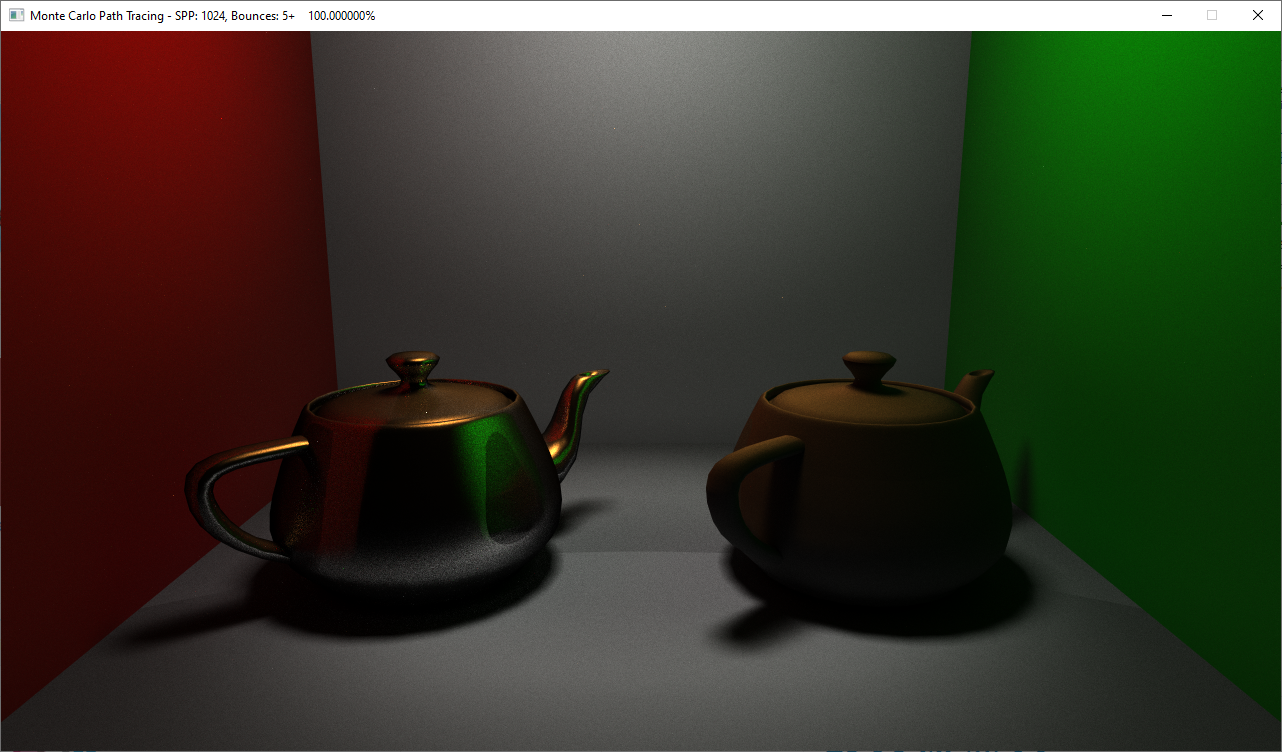
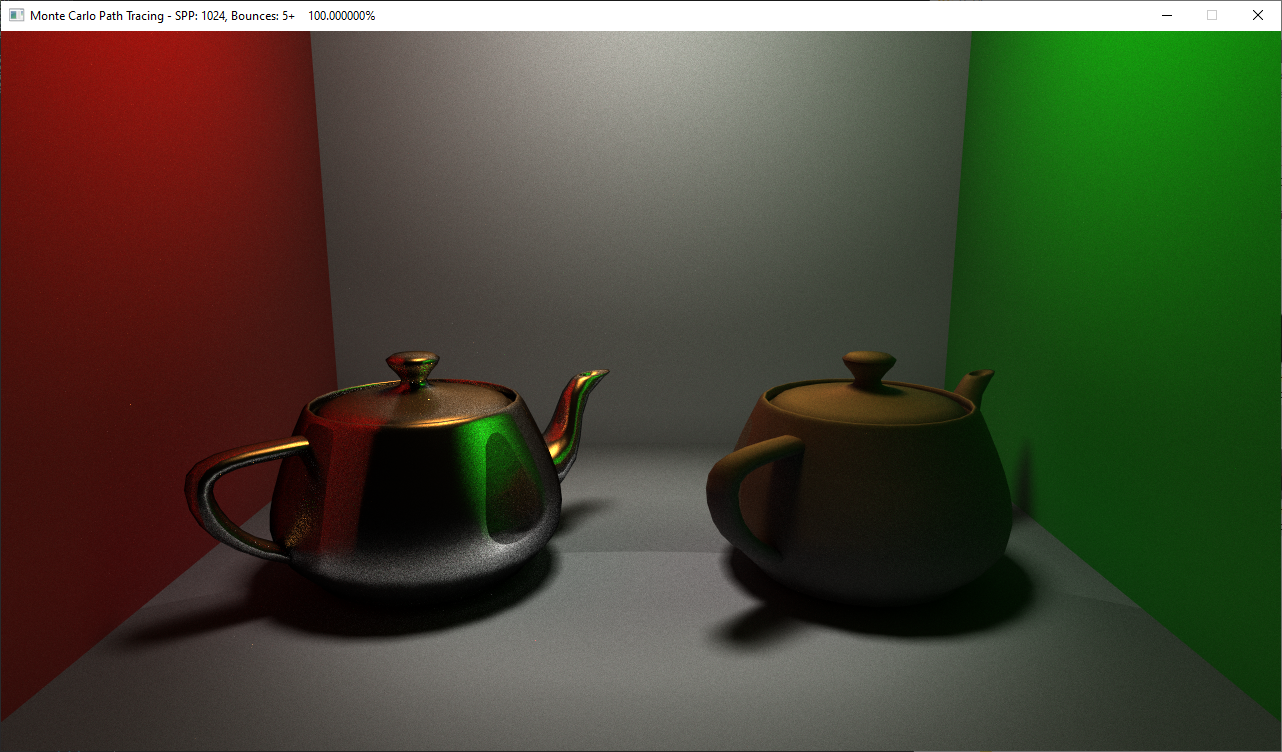
test phong material

diff --git a/1986.Kajiya/code/MonteCarloPathTracer.cpp b/1986.Kajiya/code/MonteCarloPathTracer.cpp
@@ -176,7 +176,7 @@ glm::vec3 MonteCarloPathTracer::_traceRay(const Ray& wo,
     // uniform sampling the light source, PDF = 1/A
     directLighting = Li * A * brdf * visibilityTerm * geometryTerm * color;
   }
-  if (sampleLight) return directLighting * (weight / NEE_PDF_LIGHT);
+  if (sampleLight) return directLighting / NEE_PDF_LIGHT;
   //----- end of direct lighting -----------------------------------------
 
   // bounces==1: direct lighting, bounces>1: indirect lighting
@@ -205,7 +205,7 @@ glm::vec3 MonteCarloPathTracer::_traceRay(const Ray& wo,
       indirectLighting =
           _traceRay(secondaryRay, pScene, xi, reflectance, depth + 1);
       indirectLighting =
-          indirectLighting * (brdf * RR_Boost / pdf / NEE_PDF_REFLECT);
+          indirectLighting * (weight * brdf * RR_Boost / pdf / NEE_PDF_REFLECT);
     }
   }
 

diff --git a/1986.Kajiya/code/DemoScene.h b/1986.Kajiya/code/DemoScene.h
@@ -128,7 +128,7 @@ class DemoScene : public MySceneWithLight {
     auto& mesh = createObject<MeshInstance>("dragon");
     mesh.setMeshFile(szFileName);
     mesh.createMaterial<PhongMaterial>().setColor(GOLD);
-    mesh.setScale(25)
+    mesh.setScale(28)
         .setPosition(glm::vec3(0, 100, 0))
         .setRotation(0, glm::radians(180.0f), 0);
 #endif

diff --git a/1986.Kajiya/code/CornellBoxScene.h b/1986.Kajiya/code/CornellBoxScene.h
@@ -102,7 +102,7 @@ class CornellBoxScene : public MySceneWithLight {
     teapot.setMeshFile(szTeapotFileName)
         .createMaterial<PhongMaterial>()
         .setColor(GOLD);
-    teapot.setPosition(glm::vec3(185.5f, 165, 169)).setScale(88);
+    teapot.setPosition(glm::vec3(185.5f, 165, 169)).setScale(100);
 #endif
   }
 };

diff --git a/1986.Kajiya/code/AreaLight.h b/1986.Kajiya/code/AreaLight.h
@@ -34,7 +34,7 @@ class AreaLight {
   }
 
  protected:
-  float intensity = 100;
+  float intensity = 120;
 };
 
 }  // namespace RayTracingHistory

diff --git a/README.md b/README.md
@@ -52,7 +52,7 @@
 - [ ] Importance Sampling
 - [ ] BRDFs
 
-![Screen Shot](./1986.Kajiya/images/ScreenShot-2020-06-25.png)
+![Screen Shot](./1986.Kajiya/images/ScreenShot-2020-06-27.png)
 
 ## State of the Art
 
